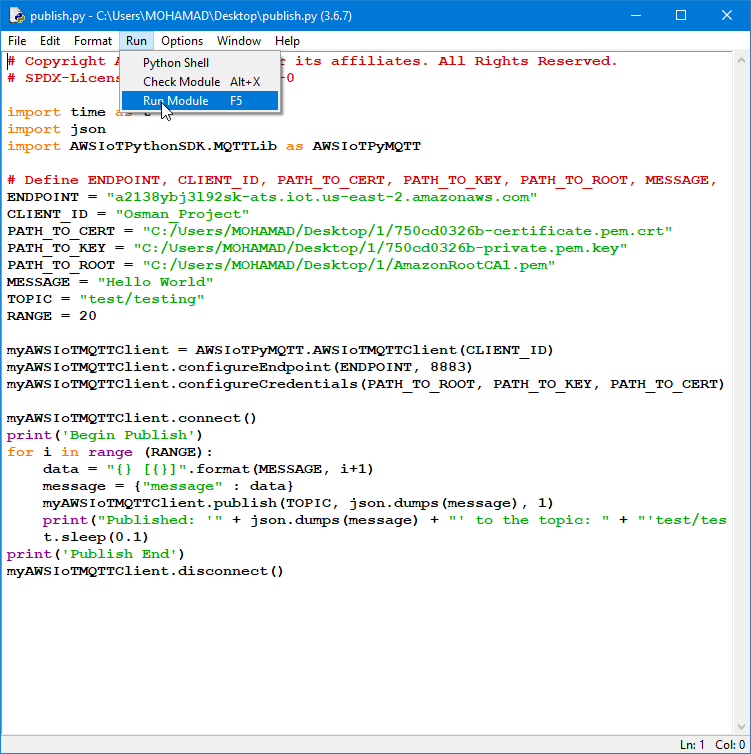
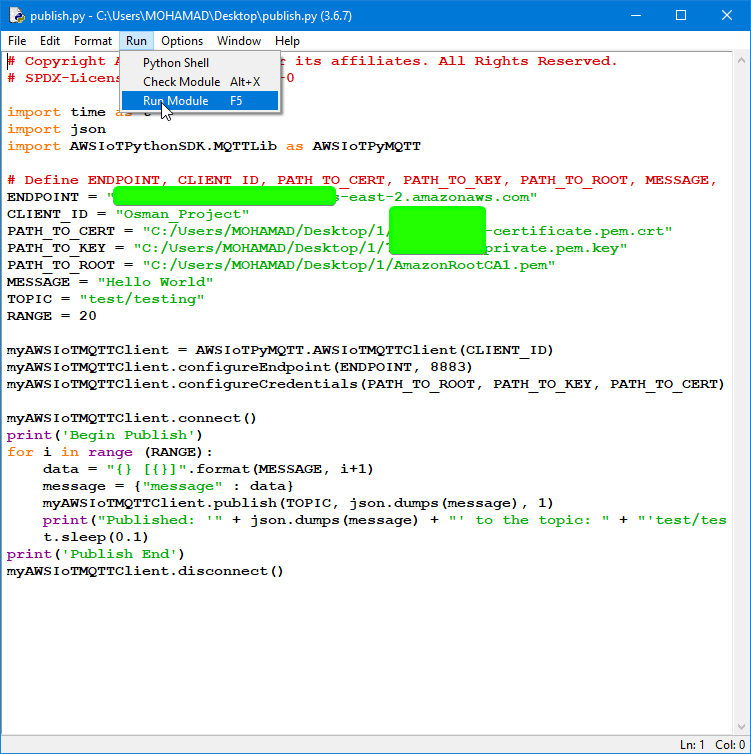
New Update :aerial_tramway:

Changed region(s): [[0.5206, 0.2745, 0.6738, 0.3355], [0.1531, 0.244, 0.4594, 0.2745]]

diff --git a/week 3/24-06-2020 Wed#Task/Task6.5 AWS and message publishing using Python/publish.py b/week 3/24-06-2020 Wed#Task/Task6.5 AWS and message publishing using Python/publish.py
@@ -6,11 +6,11 @@ import json
 import AWSIoTPythonSDK.MQTTLib as AWSIoTPyMQTT
 
 # Define ENDPOINT, CLIENT_ID, PATH_TO_CERT, PATH_TO_KEY, PATH_TO_ROOT, MESSAGE, TOPIC, and RANGE
-ENDPOINT = "a2138ybj3l92sk-ats.iot.us-east-2.amazonaws.com"
+ENDPOINT = "...................amazonaws.com"
 CLIENT_ID = "Osman_Project"
-PATH_TO_CERT = "C:/Users/MOHAMAD/Desktop/1/750cd0326b-certificate.pem.crt"
-PATH_TO_KEY = "C:/Users/MOHAMAD/Desktop/1/750cd0326b-private.pem.key"
-PATH_TO_ROOT = "C:/Users/MOHAMAD/Desktop/1/AmazonRootCA1.pem"
+PATH_TO_CERT = ".........certificate.pem.crt"
+PATH_TO_KEY = "..........private.pem.key"
+PATH_TO_ROOT = ".........AmazonRootCA1.pem"
 MESSAGE = "Hello World"
 TOPIC = "test/testing"
 RANGE = 20
